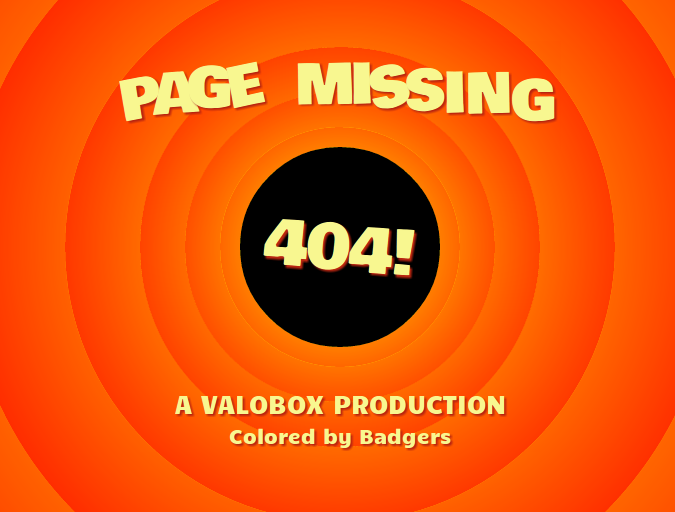
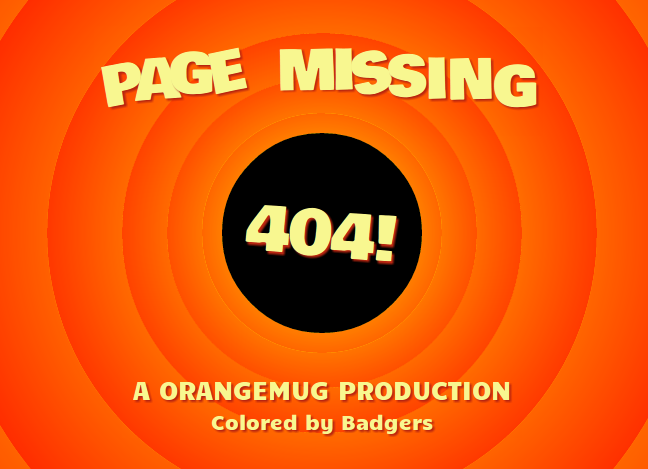
Changed screenshot.

diff --git a/looney_404/index.html b/looney_404/index.html
@@ -52,7 +52,7 @@
 
       <div class="title-group">
         <div class="title">PAGE MISSING</div>
-        <div class="production-text">A VALOBOX PRODUCTION</div>
+        <div class="production-text">A ORANGEMUG PRODUCTION</div>
         <div class="color-text">Colored by Badgers</div>
       </div>
       <div class="logo">404!</div>
